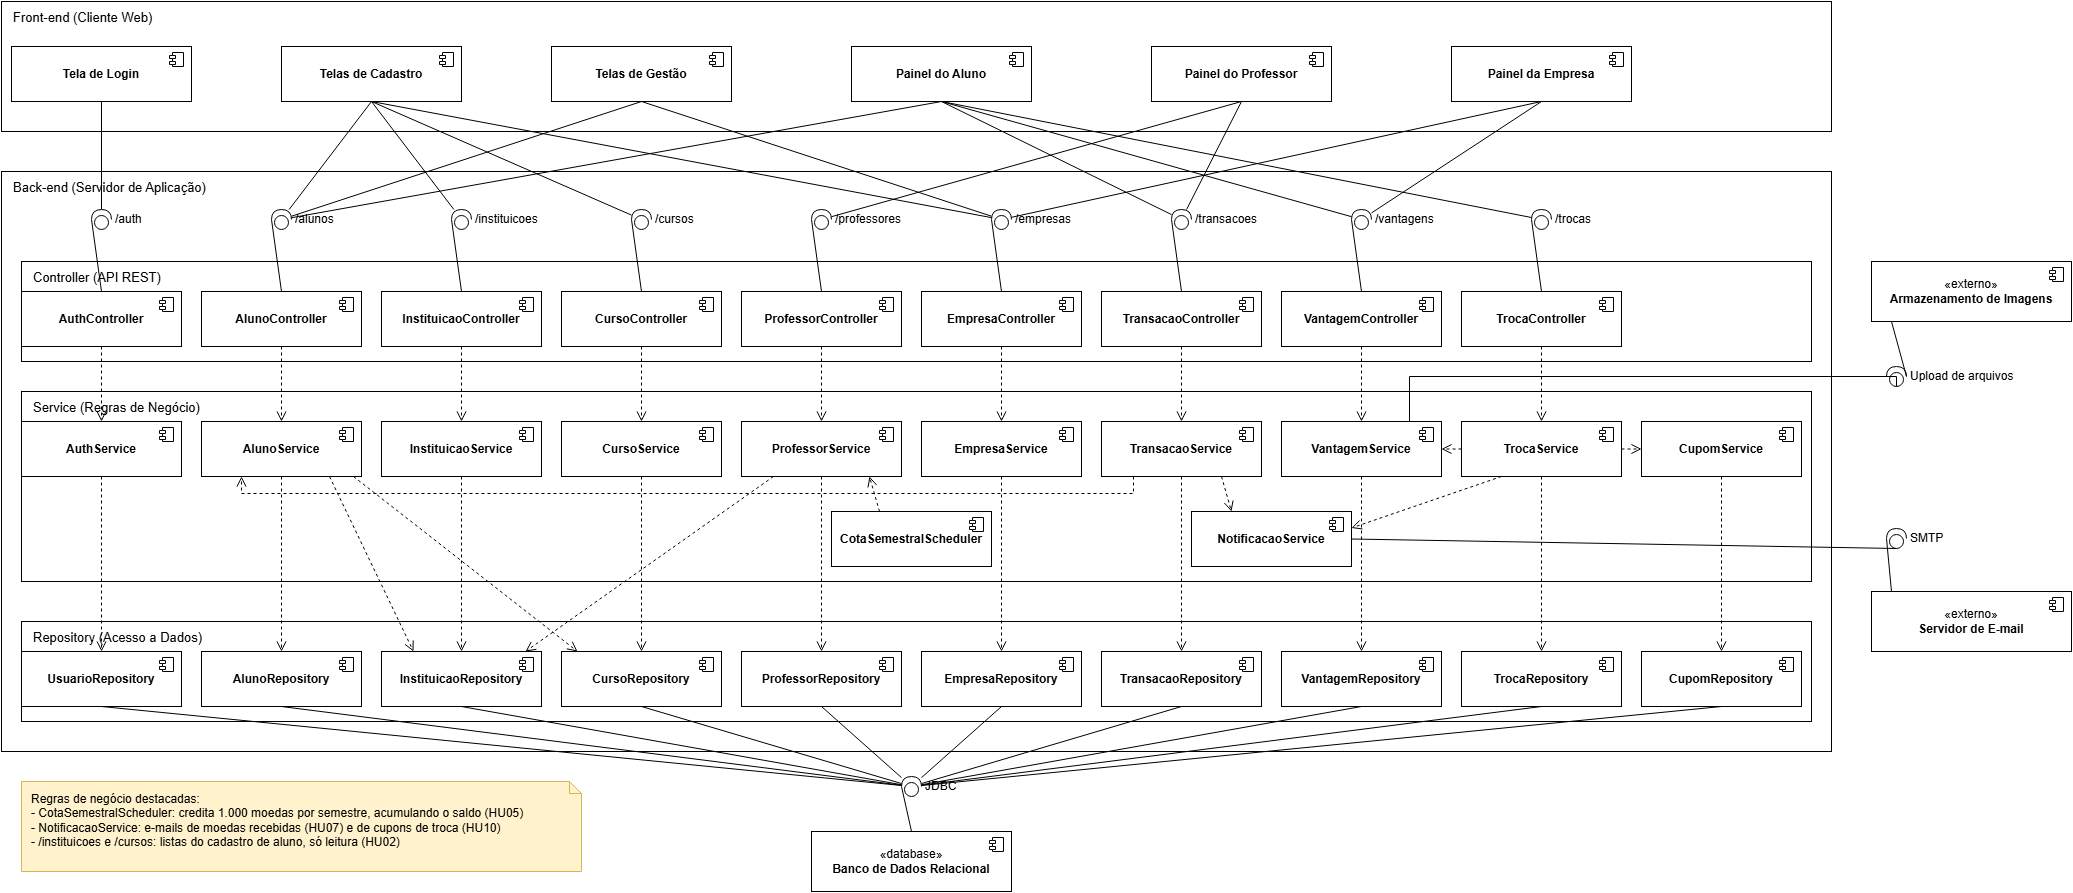
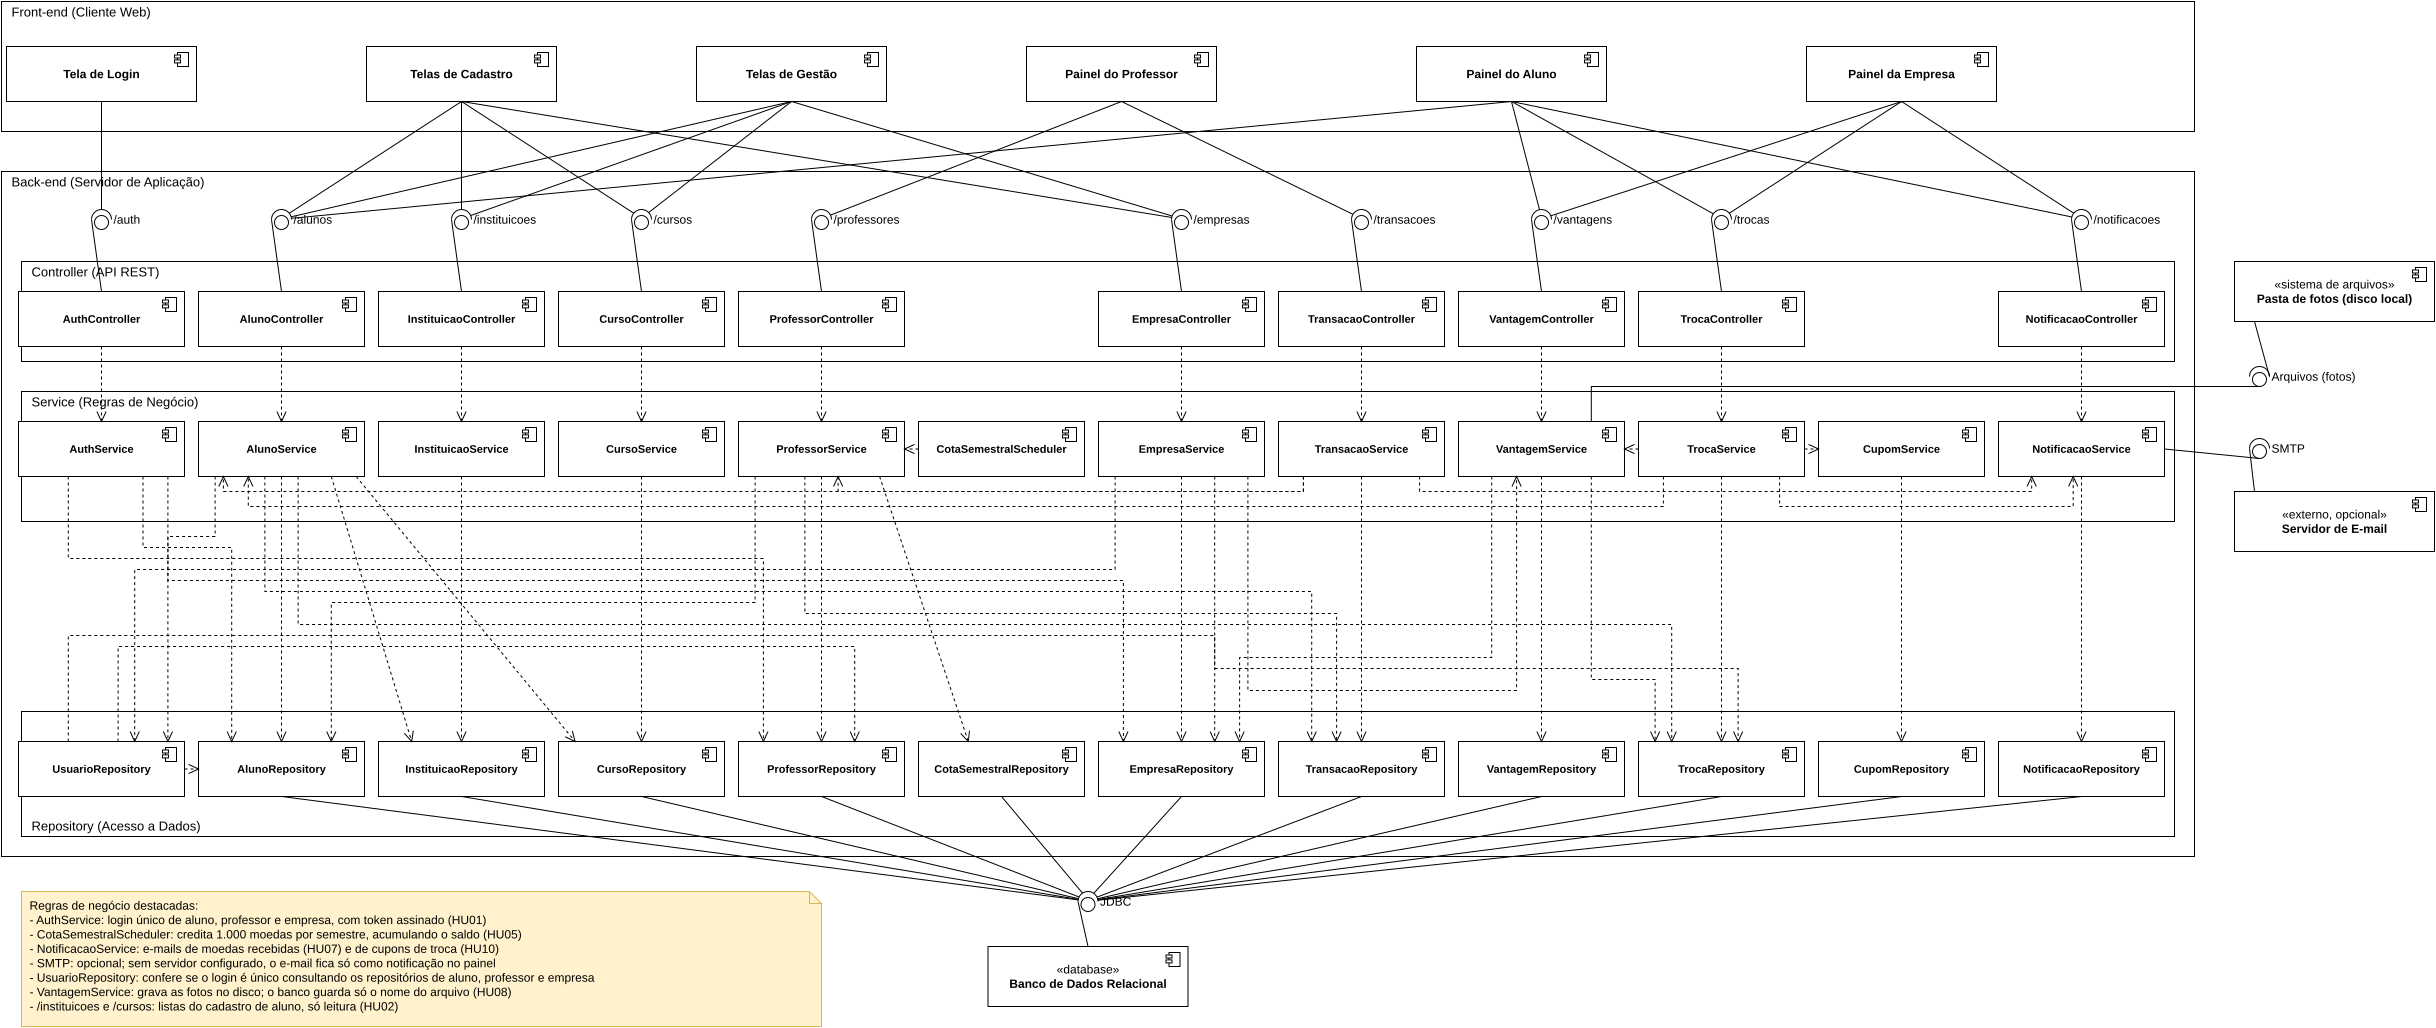
docs: diagramas de componentes alinhados à implementação
Diagrama completo (base: full-ver), corrigido contra o código:
- AuthService consulta os repositórios de aluno, professor e empresa, não o
  UsuarioRepository; ProfessorService não usa InstituicaoRepository;
  UsuarioRepository só delega aos repositórios de perfil, sem ir ao JDBC.
- Incluídas as dependências que faltavam (extrato, exclusões, login único,
  EmpresaService -> VantagemService) e Telas de Gestão -> /instituicoes e /cursos.
- Fotos das vantagens ficam em disco local (não é serviço externo) e o servidor
  de e-mail é opcional.

Versão reduzida atualizada e passa a levar o .drawio embutido: caixa de e-mails
(Controle de Notificações), Notificação ligada à Persistência, Moedas e Trocas
dependendo de Usuários, SMTP opcional e nota com cota semestral e fotos.

diff --git a/docs/Sprint 2/Modelo de Dados.md b/docs/Sprint 2/Modelo de Dados.md
@@ -153,5 +153,5 @@ Todas as imagens levam o arquivo do draw.io embutido: para editar, abra o PNG no
 - **[Diagrama Relacional](DiagramaRelacional.png)**: saíram `MOEDA`, `CARTEIRA` e `TRANSFERENCIA`, e `id_moeda` de `TROCA`; `ALUNO` ganhou `rg`, `endereco` e `saldo`; `EMPRESA`, `login` (UK) e `senha`; `VANTAGEM`, `descricao`, `foto` e `custo`; `TRANSACAO`, `motivo`; `id_transacao` e `id_troca` passaram a UUID; entrou `COTA_SEMESTRAL`, no lugar que era da `MOEDA`.
 - **[MER](Mer.drawio.png)**: `login` e `senha` em Aluno, Professor e Empresa; `rg` e `endereco` em Aluno; `descricao`, `foto` e `custo` em Vantagens; `motivo` em Transação; a entidade Cota Semestral, que o Professor recebe; saiu o atributo Instituição de Professor, que já é o relacionamento "Trabalha em".
 - **[Diagrama de Classes](../Sprint%201/Diagrama%20de%20Classes.png)**: saíram `Moeda`, `Carteira`, `Transferencia`, `StatusTransferencia` e `Aluno.solicitarTransferencia()`, e com a `Moeda` saiu a associação "paga com" de `Troca`; `Aluno` ganhou `endereco` e `saldo`; entrou a classe `CotaSemestral`, que o `Professor` recebe.
-- **[Diagrama de Componentes](Diagrama%20de%20Componentes.png)**: entraram as listas do cadastro de aluno (`/instituicoes` e `/cursos`, com `InstituicaoController`, `CursoController`, seus services e o `CursoRepository`) e, no front-end, as telas de gestão de alunos e de empresas.
+- **[Diagrama de Componentes](Diagrama%20de%20Componentes.png)**: segue a implementação. Entraram as listas do cadastro de aluno (`/instituicoes` e `/cursos`, com controllers, services e o `CursoRepository`), a caixa de e-mails (`/notificacoes`, com `NotificacaoController` e `NotificacaoRepository`), o `CotaSemestralRepository` e, no front-end, as telas de gestão de alunos e de empresas, que também usam `/instituicoes` e `/cursos` na edição do aluno. As dependências são as do código: `TransacaoService` usa `AlunoService`, `ProfessorService` e `NotificacaoService`; `TrocaService` usa `AlunoService`, `VantagemService`, `CupomService` e `NotificacaoService`; `EmpresaService` usa o `VantagemService`; e cada service também chega aos repositórios que consulta, como o extrato do aluno, que lê transações e trocas. O `AuthService` consulta os repositórios de aluno, professor e empresa. O `UsuarioRepository`, que `AlunoService` e `EmpresaService` usam para conferir o login único, só delega a esses três repositórios e não acessa o banco por conta própria. As fotos das vantagens ficam numa pasta em disco, não num serviço externo, e o servidor de e-mail é opcional.
 - **[Casos de Uso](../Sprint%201/Casos%20de%20Uso.png)**: "Realizar cadstro de empresa" corrigido para "Realizar cadastro de empresa".

diff --git a/docs/README.md b/docs/README.md
@@ -19,7 +19,8 @@ Os diagramas estão alinhados entre si e com as histórias de usuário; as diver
 ## Sprint 2 (Lab03S02)
 
 1. **[Diagrama de Componentes](Sprint%202/Diagrama%20de%20Componentes.png)**
-   - Front-end (telas de login, cadastro, gestão e painéis), back-end em camadas (controllers, services, repositories), banco relacional e os serviços externos de e-mail e de imagens.
+   - Front-end (telas de login, cadastro, gestão e painéis), back-end em camadas (controllers, services, repositories), banco relacional, o servidor de e-mail (opcional) e a pasta de fotos em disco local.
+   - Há também uma [versão reduzida](Sprint%202/diagrama-de-componentes-reduzido.png), mais abstrata (View, Controller e Model em blocos de gestão), para leitura rápida.
 
 2. **[Modelo Entidade-Relacionamento](Sprint%202/Mer.drawio.png)**
    - Modelo conceitual.
